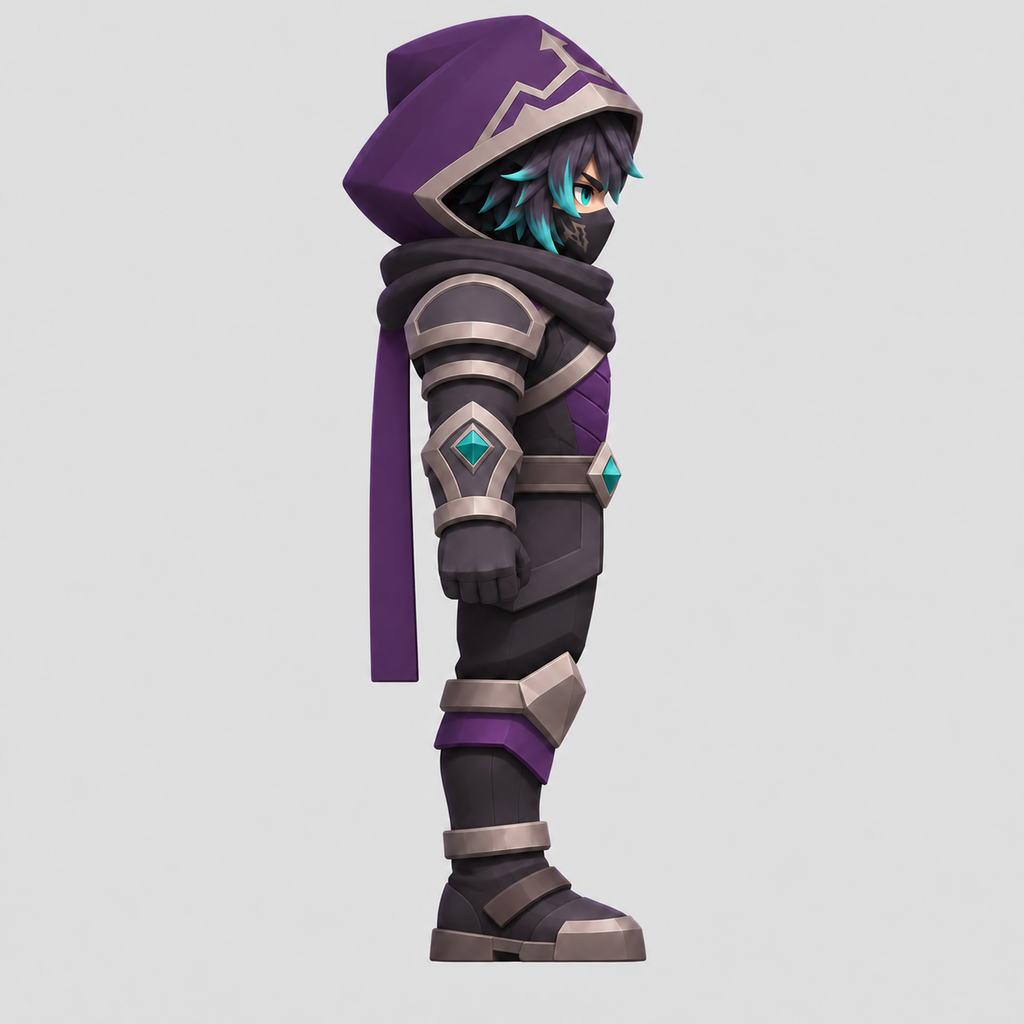
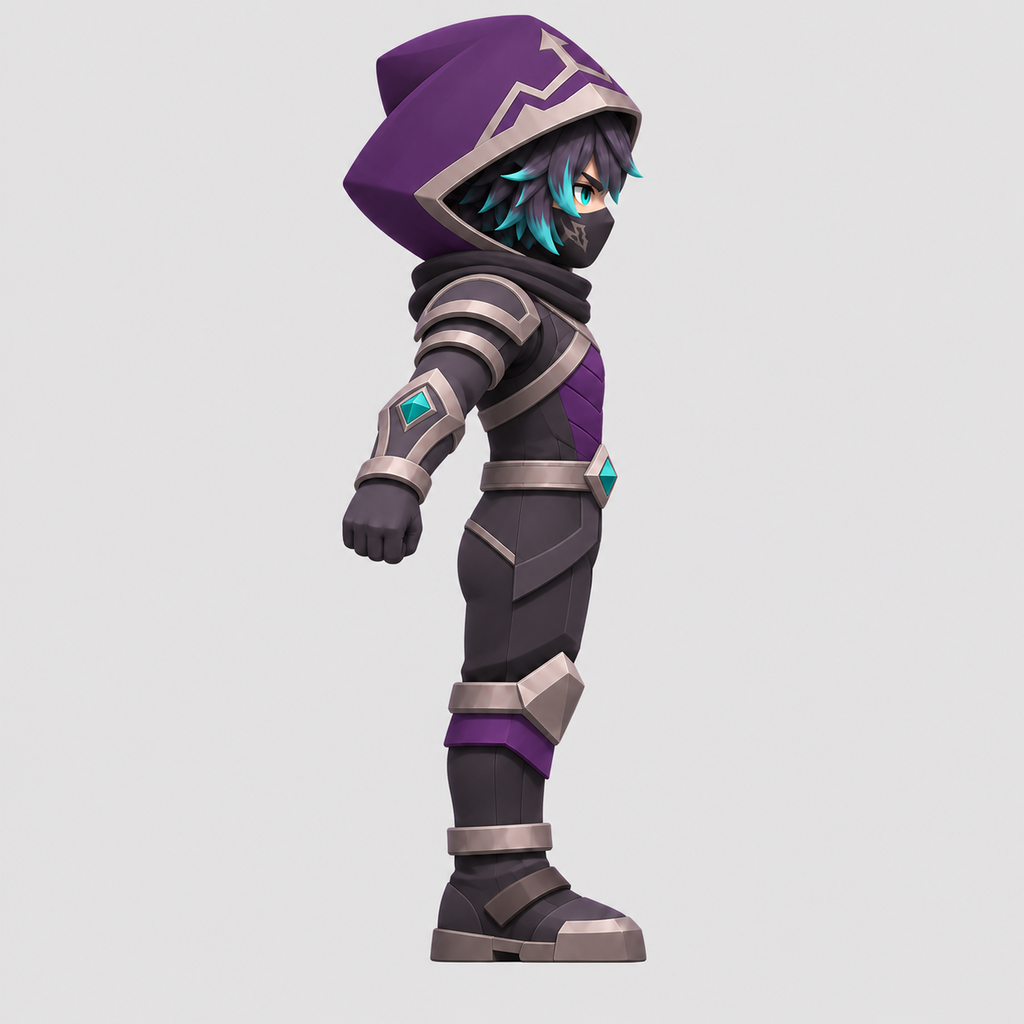
art: redraw Noctis without cape for T9d

diff --git a/art_inbox/YEU_CAU_STYLE.md b/art_inbox/YEU_CAU_STYLE.md
@@ -499,6 +499,6 @@ tím, khăn che mặt đen, mắt xanh ngọc, tóc xanh lộ dưới mũ, giáp
 Dao giữ nguyên. Nền xám nhạt trơn, không bóng / chữ. Xong thì commit + push nhánh `thu-asset-tu-lam`, rồi **DỪNG** báo
 người dùng.
 
-- [ ] `noctis_front.png`
-- [ ] `noctis_side.png`
-- [ ] `noctis_back.png`
+- [x] `noctis_front.png`
+- [x] `noctis_side.png`
+- [x] `noctis_back.png`
